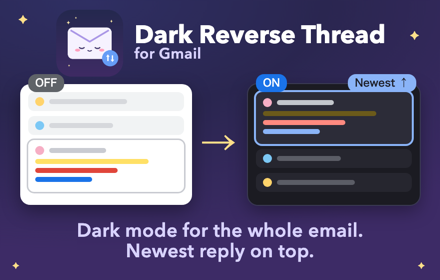
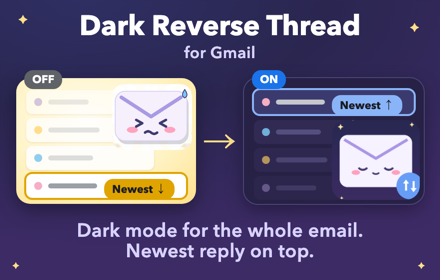
Store: character promo tile (bright, newest at the bottom -> dark, newest on top)
The envelope characters from the first screenshot show both pains and their fix:
on the left a squinting envelope on a glaring list with the newest email at the
bottom, on the right a calm envelope on a dark list with the newest on top.
Keeps "for Gmail" and the two-line tagline. The diagram version is in 7cc950b.

diff --git a/store/promo/src/small-tile-en.html b/store/promo/src/small-tile-en.html
@@ -1,41 +1,44 @@
 <!doctype html><meta charset=utf-8><link rel=stylesheet href=base.css>
 <style>
-.panel{position:absolute;top:84px;width:172px;border-radius:10px;padding:8px;box-shadow:0 6px 18px rgba(0,0,0,.35)}
-.light{left:20px;background:#fff}
-.dark{left:248px;background:#1b1b22;outline:1px solid #3a3a52}
-.m{border-radius:6px;padding:5px 7px;margin-bottom:5px;display:flex;align-items:center;gap:5px}
-.light .m{background:#f1f3f4}.dark .m{background:#26262f}
-.m .line{margin:0;height:5px}
-.dot{width:9px;height:9px;border-radius:50%;flex:none}
-.big{border-radius:6px;padding:6px 7px;margin-bottom:5px}
-.light .big{background:#fff;outline:1.5px solid #c9cbd1}
-.dark .big{background:#2c2c38;outline:2px solid #8ab4f8}
-.big .line{height:5px;margin:4px 0}
-.light .t{background:#c9cbd1}.dark .t{background:#c4c7cc}
-.light .dim{background:#d6d8dc}.dark .dim{background:#5b5d66}
-.light .red{background:#e0453a}.dark .red{background:#ff8a80}
-.light .blue{background:#1a73e8}.dark .blue{background:#8ab4f8}
-.light .hl{background:#ffe066}.dark .hl{background:#6b5a1a}
-.arrow{position:absolute;left:200px;top:116px;font:700 36px 'Avenir Next';color:#ffe08a}
-.badge{position:absolute;font:600 10.5px 'Hiragino Sans';padding:1px 7px;border-radius:8px}
+.card{position:absolute;top:78px;width:180px;height:126px;border-radius:14px;padding:0;overflow:hidden;box-shadow:0 6px 18px rgba(0,0,0,.35)}
+.bright{left:16px;background:radial-gradient(90% 90% at 40% 35%,#fffdf3 0%,#fff3c4 55%,#ffe08a 100%)}
+.lrow{position:absolute;left:10px;width:128px;height:24px;border-radius:6px;background:#ffffff;display:flex;align-items:center;gap:6px;padding:0 8px;box-shadow:0 1px 2px rgba(120,90,0,.15)}
+.lrow .dot{width:8px;height:8px;border-radius:50%;flex:none}
+.lrow .ln{height:5px;border-radius:3px;background:#d6d8dc}
+.lrow.new{outline:2px solid #e0a400}
+.lrow.new .ln{background:#9aa0a6}
+.squint{position:absolute;left:96px;top:6px;width:80px;height:66px;background:url(../../screenshots/en/1-problem.png) no-repeat;background-size:384px 240px;background-position:-63px -100px;border-radius:12px}
+.dark{left:244px;background:#262145;outline:1px solid #4a4478}
+.row{position:absolute;left:10px;width:128px;height:24px;border-radius:6px;background:#332d57;display:flex;align-items:center;gap:6px;padding:0 8px}
+.row .dot{width:8px;height:8px;border-radius:50%;flex:none}
+.row .ln{height:5px;border-radius:3px;background:#5d5788}
+.row.new{background:#3b3a6e;outline:2px solid #8ab4f8}
+.row.new .ln{background:#c4c7cc}
+.env{position:absolute;left:88px;top:42px;width:88px;height:80px;background:url(../../icon-1024.png) no-repeat;background-size:116px 116px;background-position:-14px -17px;border-radius:14px}
+.arrow{position:absolute;left:202px;top:116px;font:700 34px 'Avenir Next';color:#ffe08a}
+.badge{position:absolute;font:700 11px 'Avenir Next',sans-serif;padding:2px 8px;border-radius:9px}
 </style>
-<span class=star style="left:18px;top:14px">✦</span><span class=star style="left:410px;top:30px">✦</span><span class=star style="left:418px;top:262px;font-size:9px">✦</span><span class=star style="left:12px;top:262px;font-size:9px">✦</span>
-<div style="position:absolute;left:0;right:0;top:8px;display:flex;align-items:center;justify-content:center;gap:10px">
- <img src=../../icon-1024.png style="width:70px;height:70px"><div style="display:flex;flex-direction:column;line-height:1"><div class="title" style="font-size:25px">Dark Reverse Thread</div><div class="tag" style="font:600 15px 'Avenir Next',sans-serif;color:#d9d3ff;margin-top:-4px">for Gmail</div></div></div>
-<div class="panel light">
- <div class=m><div class=dot style="background:#ffd36b"></div><div class="line dim" style="width:55%"></div></div>
- <div class=m><div class=dot style="background:#7cc8f5"></div><div class="line dim" style="width:45%"></div></div>
- <div class=big><div style="display:flex;align-items:center;gap:5px"><div class=dot style="background:#f6aec4"></div><div class="line t" style="width:40%;margin:0"></div></div>
-  <div class="line hl" style="width:80%"></div><div class="line red" style="width:58%"></div><div class="line blue" style="width:40%"></div></div>
+<span class=star style="left:18px;top:14px">✦</span><span class=star style="left:410px;top:22px">✦</span><span class=star style="left:418px;top:262px;font-size:9px">✦</span><span class=star style="left:12px;top:262px;font-size:9px">✦</span>
+<div style="position:absolute;left:0;right:0;top:12px;text-align:center;line-height:1">
+ <div class="title" style="font-size:28px">Dark Reverse Thread</div>
+ <div class="tag" style="font:600 16px 'Avenir Next',sans-serif;color:#d9d3ff;margin-top:2px">for Gmail</div></div>
+<div class="card bright">
+ <div class=lrow style="top:12px;opacity:.55"><div class=dot style="background:#b39ddb"></div><div class=ln style="width:36%"></div></div>
+ <div class=lrow style="top:40px;opacity:.7"><div class=dot style="background:#ffd36b"></div><div class=ln style="width:46%"></div></div>
+ <div class=lrow style="top:68px;opacity:.85"><div class=dot style="background:#7cc8f5"></div><div class=ln style="width:40%"></div></div>
+ <div class="lrow new" style="top:96px;width:160px"><div class=dot style="background:#f6aec4"></div><div class=ln style="width:34%"></div></div>
+ <div class=squint></div>
 </div>
 <div class=arrow>→</div>
-<div class="panel dark">
- <div class=big><div style="display:flex;align-items:center;gap:5px"><div class=dot style="background:#f6aec4"></div><div class="line t" style="width:40%;margin:0"></div></div>
-  <div class="line hl" style="width:80%"></div><div class="line red" style="width:58%"></div><div class="line blue" style="width:40%"></div></div>
- <div class=m><div class=dot style="background:#7cc8f5"></div><div class="line dim" style="width:45%"></div></div>
- <div class=m><div class=dot style="background:#ffd36b"></div><div class="line dim" style="width:55%"></div></div>
+<div class="card dark">
+ <div class="row new" style="top:12px;width:160px"><div class=dot style="background:#f6aec4"></div><div class=ln style="width:34%"></div></div>
+ <div class=row style="top:42px;opacity:.85"><div class=dot style="background:#7cc8f5"></div><div class=ln style="width:40%"></div></div>
+ <div class=row style="top:70px;opacity:.65"><div class=dot style="background:#ffd36b"></div><div class=ln style="width:46%"></div></div>
+ <div class=row style="top:98px;opacity:.45"><div class=dot style="background:#b39ddb"></div><div class=ln style="width:36%"></div></div>
+ <div class=env></div>
 </div>
-<div class=badge style="left:28px;top:74px;background:#5f6368;color:#fff">OFF</div>
-<div class=badge style="left:256px;top:74px;background:#1a73e8;color:#fff">ON</div>
-<div class=badge style="left:348px;top:74px;background:#8ab4f8;color:#1b1b22">Newest ↑</div>
+<div class=badge style="left:24px;top:70px;background:#5f6368;color:#fff">OFF</div>
+<div class=badge style="left:252px;top:70px;background:#1a73e8;color:#fff">ON</div>
+<div class=badge style="left:332px;top:95px;background:#8ab4f8;color:#1b1b22">Newest ↑</div>
+<div class=badge style="left:104px;top:179px;background:#e0a400;color:#1b1b22">Newest ↓</div>
 <div class=tag style="position:absolute;left:0;right:0;bottom:18px;text-align:center;font-size:19px;line-height:1.08;font-family:'Avenir Next',sans-serif;font-weight:600">Dark mode for the whole email.<br>Newest reply on top.</div>
